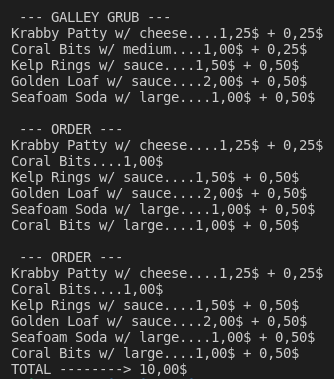
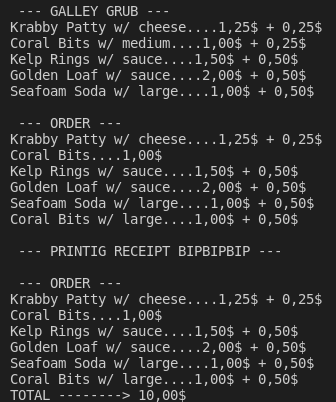
refactor(Domain): Definir interfaces de los tipos del dominio

Changed region(s): [[0.0299, 0.0, 0.988, 0.6385], [0.0299, 0.6675, 0.9581, 1.0], [0.8084, 0.6966, 0.9581, 0.7546]]

diff --git a/src/main/java/edu/poniperro/galleygrub/App.java b/src/main/java/edu/poniperro/galleygrub/App.java
@@ -7,8 +7,11 @@ import edu.poniperro.galleygrub.extras.SauceExtra;
 import edu.poniperro.galleygrub.extras.SizeLargeExtra;
 import edu.poniperro.galleygrub.items.Item;
 import edu.poniperro.galleygrub.items.Prices;
+import edu.poniperro.galleygrub.items.Product;
+import edu.poniperro.galleygrub.order.Comanda;
 import edu.poniperro.galleygrub.order.Order;
 import edu.poniperro.galleygrub.receipt.Receipt;
+import edu.poniperro.galleygrub.receipt.Ticket;
 
 /**
  * 
@@ -70,15 +73,15 @@ public class App
 
         System.out.print("\n\t --- GALLEY GRUB ---  \n");
         
-        Item patty = new Item("Krabby Patty", 1.25);
+        Product patty = new Item("Krabby Patty", 1.25);
         display(patty);
-        Item bits = new Item("Coral Bits", 1.00);
+        Product bits = new Item("Coral Bits", 1.00);
         display(bits);
-        Item rings = new Item("Kelp Rings", 1.50);
+        Product rings = new Item("Kelp Rings", 1.50);
         display(rings);
-        Item loaf = new Item("Golden Loaf", 2.00);
+        Product loaf = new Item("Golden Loaf", 2.00);
         display(loaf);
-        Item soda = new Item("Seafoam Soda", 1.00);
+        Product soda = new Item("Seafoam Soda", 1.00);
         display(soda);
 
         /**
@@ -108,7 +111,7 @@ public class App
          * ahorrando asi memoria.
          */
 
-        Order order = new Order();
+        Comanda order = new Order();
 
         order.addItem("Krabby Patty", 1.25);
         order.addItem("Coral Bits", 1.00);
@@ -124,7 +127,7 @@ public class App
          * y lo muestra en pantalla.
          */
 
-        Receipt receipt = new Receipt(order);
+        Ticket receipt = new Receipt(order);
         receipt.total();
         receipt.print();
 
@@ -209,14 +212,16 @@ public class App
          * y lo muestra en pantalla.
          */
 
-        Receipt receiptExtra = new Receipt(order);
+        System.out.print("\n\t --- PRINTIG RECEIPT BIPBIPBIP ---  \n");
+
+        Ticket receiptExtra = new Receipt(order);
         receiptExtra.setChain(regular);
 
         receiptExtra.total();
         receiptExtra.print();
     }
 
-    public static void display(Item item) {
+    public static void display(Product item) {
         System.out.print("\t" + item.toString() + "\n");
     }
 }

diff --git a/src/main/java/edu/poniperro/galleygrub/receipt/Receipt.java b/src/main/java/edu/poniperro/galleygrub/receipt/Receipt.java
@@ -1,20 +1,20 @@
 package edu.poniperro.galleygrub.receipt;
 
 import edu.poniperro.galleygrub.extras.Extra;
-import edu.poniperro.galleygrub.order.Order;
+import edu.poniperro.galleygrub.order.Comanda;
 
-public class Receipt {
+public class Receipt implements Ticket {
 
-    private Order order = null;
+    private Comanda order = null;
     private Double total = 0d;
     private Extra firstExtra = null;
 
-    public Receipt(Order order) {
+    public Receipt(Comanda order) {
         this.order = order;
         this.total = order.getTotal();
     }
 
-    public Order getOrder() {
+    public Comanda getOrder() {
         return this.order;
     }
 

diff --git a/src/test/java/edu/poniperro/galleygrub/receipt/ReceiptTest.java b/src/test/java/edu/poniperro/galleygrub/receipt/ReceiptTest.java
@@ -11,6 +11,7 @@ import edu.poniperro.galleygrub.extras.Extra;
 import edu.poniperro.galleygrub.extras.Regular;
 import edu.poniperro.galleygrub.extras.SauceExtra;
 import edu.poniperro.galleygrub.extras.SizeLargeExtra;
+import edu.poniperro.galleygrub.order.Comanda;
 import edu.poniperro.galleygrub.order.Order;
 
 public class ReceiptTest {
@@ -42,7 +43,7 @@ public class ReceiptTest {
         receipt.setChain(cheese);   
         assertNotNull(receipt.getChain());
 
-        Order savedOrder = receipt.getOrder();
+        Comanda savedOrder = receipt.getOrder();
         assertNotNull(savedOrder);
         assertEquals(0d, savedOrder.getTotal(), 0d);
 

diff --git a/src/main/java/edu/poniperro/galleygrub/extras/CheeseExtra.java b/src/main/java/edu/poniperro/galleygrub/extras/CheeseExtra.java
@@ -2,7 +2,7 @@ package edu.poniperro.galleygrub.extras;
 
 import java.util.Optional;
 
-import edu.poniperro.galleygrub.order.Order;
+import edu.poniperro.galleygrub.order.Comanda;
 
 public class CheeseExtra extends Extra {
 
@@ -11,7 +11,7 @@ public class CheeseExtra extends Extra {
     public CheeseExtra() {};
 
     @Override
-    public void sumExtras(Order order) {
+    public void sumExtras(Comanda order) {
         Optional<Double> cheeseCharge = order.itemList().stream()
                             .filter(item -> item.extra().equals(CHEESE))
                             .map(item -> CHEESE_PRICE)

diff --git a/src/main/java/edu/poniperro/galleygrub/extras/SauceExtra.java b/src/main/java/edu/poniperro/galleygrub/extras/SauceExtra.java
@@ -2,7 +2,7 @@ package edu.poniperro.galleygrub.extras;
 
 import java.util.Optional;
 
-import edu.poniperro.galleygrub.order.Order;
+import edu.poniperro.galleygrub.order.Comanda;
 
 public class SauceExtra extends Extra {
 
@@ -11,7 +11,7 @@ public class SauceExtra extends Extra {
     public SauceExtra() {};
 
     @Override
-    public void sumExtras(Order order) {
+    public void sumExtras(Comanda order) {
         Optional<Double> sauceCharge = order.itemList().stream()
                             .filter(item -> item.extra().equals(SAUCE))
                             .map(item -> SAUCE_PRICE)

diff --git a/src/main/java/edu/poniperro/galleygrub/extras/SizeLargeExtra.java b/src/main/java/edu/poniperro/galleygrub/extras/SizeLargeExtra.java
@@ -2,7 +2,7 @@ package edu.poniperro.galleygrub.extras;
 
 import java.util.Optional;
 
-import edu.poniperro.galleygrub.order.Order;
+import edu.poniperro.galleygrub.order.Comanda;
 
 public class SizeLargeExtra extends Extra {
 
@@ -12,7 +12,7 @@ public class SizeLargeExtra extends Extra {
     };
 
     @Override
-    public void sumExtras(Order order) {
+    public void sumExtras(Comanda order) {
         Optional<Double> sizeCharge = order.itemList().stream()
                 .filter(item -> item.extra().equals(SIZE_LARGE))
                 .map(item -> SIZE_PRICE)

diff --git a/src/main/java/edu/poniperro/galleygrub/extras/Regular.java b/src/main/java/edu/poniperro/galleygrub/extras/Regular.java
@@ -3,14 +3,14 @@ package edu.poniperro.galleygrub.extras;
 import java.util.Optional;
 
 import edu.poniperro.galleygrub.items.Item;
-import edu.poniperro.galleygrub.order.Order;
+import edu.poniperro.galleygrub.order.Comanda;
 
 public class Regular extends Extra {
     
     public Regular() {};
 
     @Override
-    public void sumExtras(Order order) {
+    public void sumExtras(Comanda order) {
         Optional<Double> sumRegularPrices = order.itemList().stream()
                             .map(Item::price)
                             .reduce(Double::sum);

diff --git a/src/main/java/edu/poniperro/galleygrub/extras/Extra.java b/src/main/java/edu/poniperro/galleygrub/extras/Extra.java
@@ -2,7 +2,7 @@ package edu.poniperro.galleygrub.extras;
 
 import java.util.Optional;
 
-import edu.poniperro.galleygrub.order.Order;
+import edu.poniperro.galleygrub.order.Comanda;
 
 public abstract class Extra {
 
@@ -18,5 +18,5 @@ public abstract class Extra {
         this.nextExtra = Optional.of(nextExtra);
     }  
     
-    public abstract void sumExtras(Order order);
+    public abstract void sumExtras(Comanda order);
 }

diff --git a/src/main/java/edu/poniperro/galleygrub/order/Comanda.java b/src/main/java/edu/poniperro/galleygrub/order/Comanda.java
@@ -1,0 +1,23 @@
+package edu.poniperro.galleygrub.order;
+
+import java.util.List;
+
+import edu.poniperro.galleygrub.items.Item;
+
+public interface Comanda {
+
+    void addItem(String name, double price);
+
+    void addItem(String name, double price, String extra);
+
+    int size();
+
+    List<Item> itemList();
+
+    Double getTotal();
+
+    void updateTotal(Double total);
+
+    void display();
+    
+}

diff --git a/src/main/java/edu/poniperro/galleygrub/receipt/Ticket.java b/src/main/java/edu/poniperro/galleygrub/receipt/Ticket.java
@@ -1,0 +1,20 @@
+package edu.poniperro.galleygrub.receipt;
+
+import edu.poniperro.galleygrub.extras.Extra;
+import edu.poniperro.galleygrub.order.Comanda;
+
+public interface Ticket {
+
+    Comanda getOrder();
+
+    void setChain(Extra extra); 
+
+    Extra getChain();
+
+    Double total();
+
+    void sumExtrasCharge();
+
+    void print();
+    
+}

diff --git a/src/main/java/edu/poniperro/galleygrub/order/Order.java b/src/main/java/edu/poniperro/galleygrub/order/Order.java
@@ -7,7 +7,7 @@ import java.util.List;
 import edu.poniperro.galleygrub.items.Item;
 import edu.poniperro.galleygrub.items.ItemFactory;
 
-public class Order {
+public class Order implements Comanda {
 
     private final List<Item> items = new ArrayList<Item>();
     private Double total = 0d;

diff --git a/src/main/java/edu/poniperro/galleygrub/items/Product.java b/src/main/java/edu/poniperro/galleygrub/items/Product.java
@@ -1,0 +1,12 @@
+package edu.poniperro.galleygrub.items;
+
+public interface Product {
+
+    String name();
+
+    Double price(); 
+
+    String extra();
+
+    Boolean isRegular();   
+}
